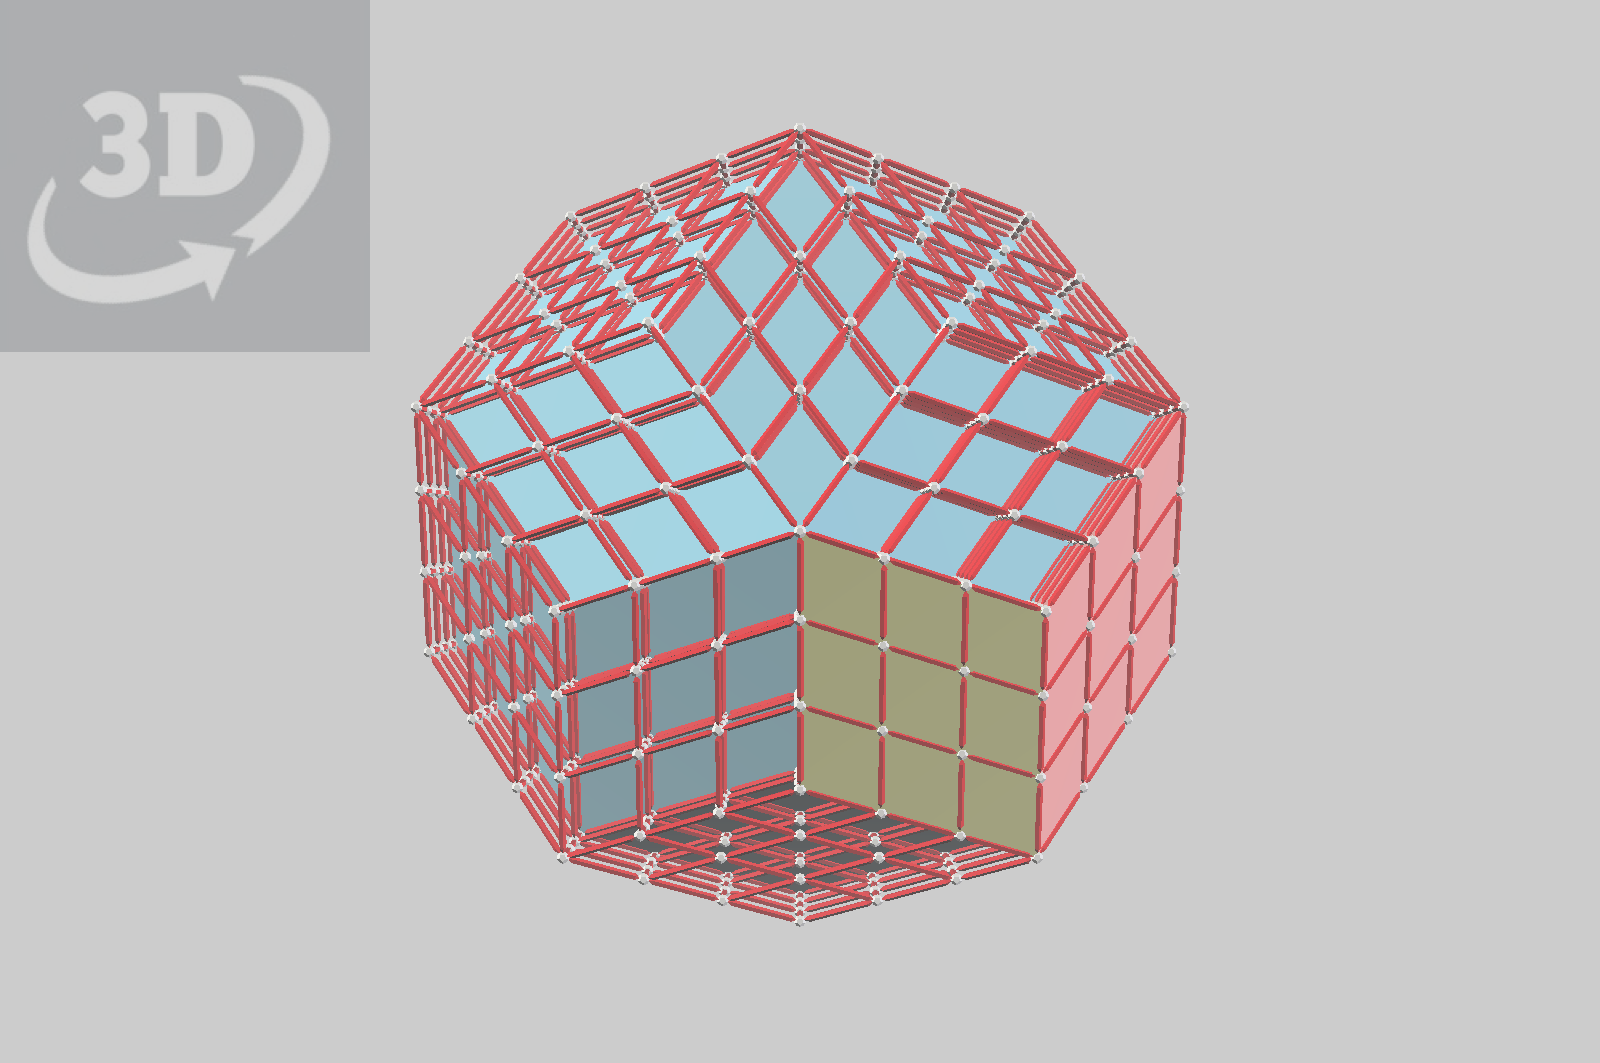
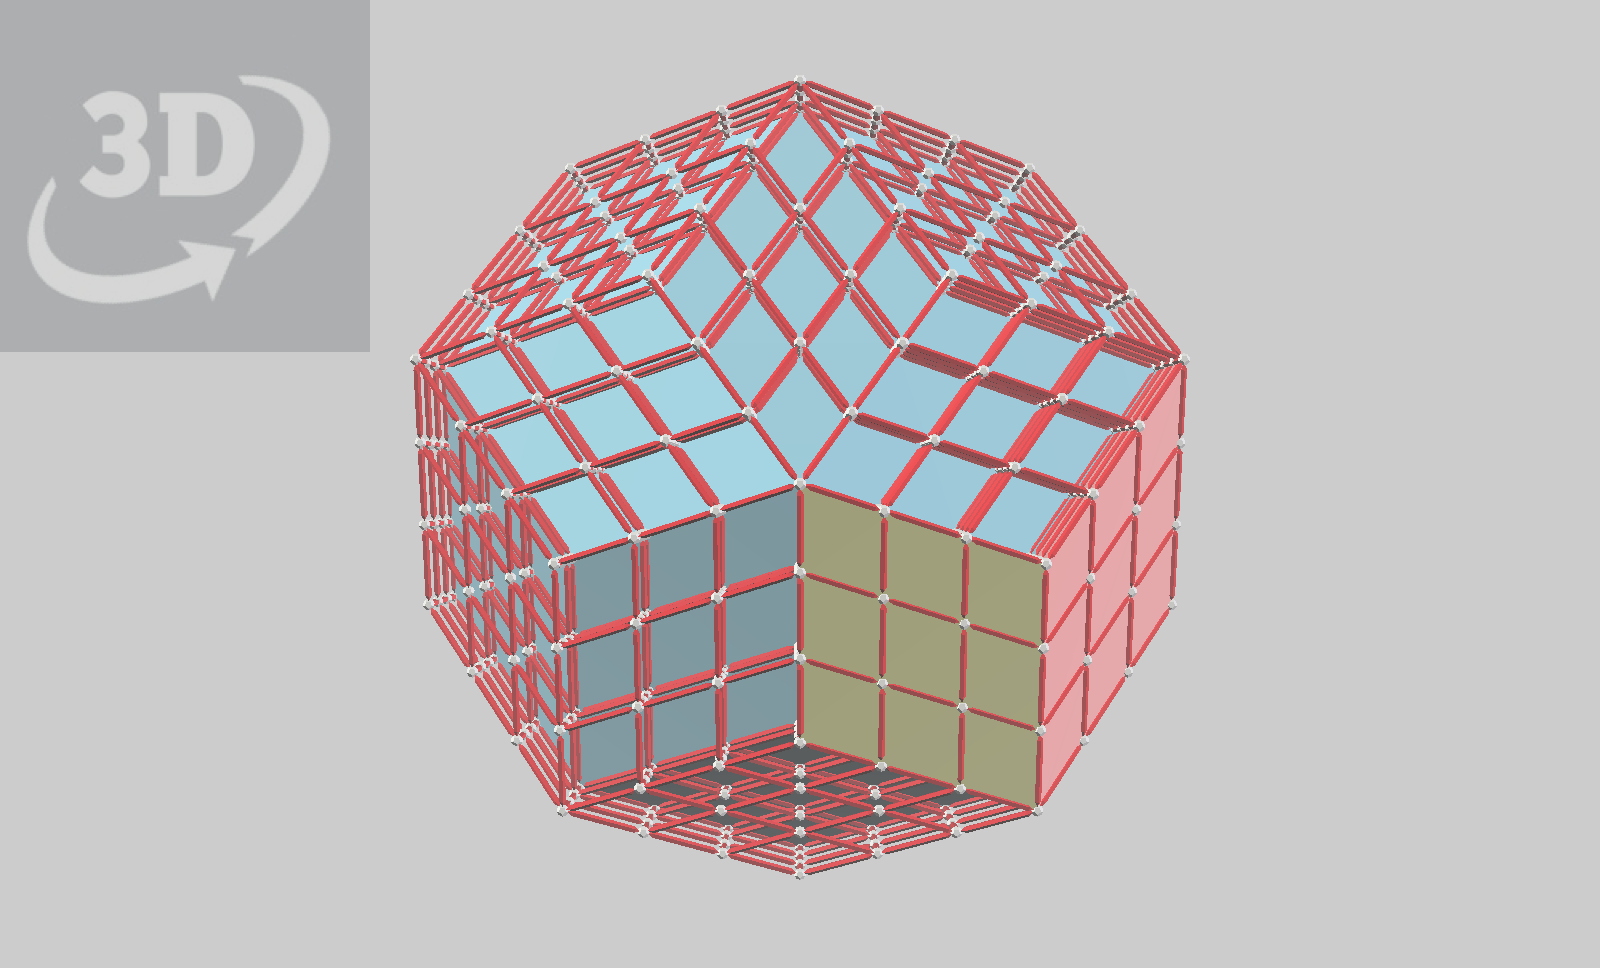
6 Direction Array Construction

Changed region(s): [[0.0, 0.062, 0.75, 0.8988]]

diff --git a/2026/10/02/16-21-07-6-Direction-Array-Construction/README.md b/2026/10/02/16-21-07-6-Direction-Array-Construction/README.md
@@ -9,8 +9,8 @@
  ```html
 <figure style="width: 87%; margin: 5%">
   
-  <div style='display:flex;'><div style='margin: auto;'><vzome-viewer-previous label='prev step'></vzome-viewer-previous><vzome-viewer-next label='next step'></vzome-viewer-next></div></div>
-  <vzome-viewer style="width: 100%; height: 60dvh" indexed='true'
+  
+  <vzome-viewer style="width: 100%; height: 60dvh" show-scenes='named'
         src="https://John-Kostick.github.io/vzome-sharing/2026/10/02/16-21-07-6-Direction-Array-Construction/6-Direction-Array-Construction.vZome" >
     <img  style="width: 100%"
         src="https://John-Kostick.github.io/vzome-sharing/2026/10/02/16-21-07-6-Direction-Array-Construction/6-Direction-Array-Construction.png" >

diff --git a/2026/10/02/16-21-07-6-Direction-Array-Construction/index.md b/2026/10/02/16-21-07-6-Direction-Array-Construction/index.md
@@ -6,8 +6,8 @@ layout: design
 ---
 
   
-  <div style='display:flex;'><div style='margin: auto;'><vzome-viewer-previous label='prev step'></vzome-viewer-previous><vzome-viewer-next label='next step'></vzome-viewer-next></div></div>
-  <vzome-viewer style="width: 100%; height: 60dvh" indexed='true'
+  
+  <vzome-viewer style="width: 100%; height: 60dvh" show-scenes='named'
         src="https://John-Kostick.github.io/vzome-sharing/2026/10/02/16-21-07-6-Direction-Array-Construction/6-Direction-Array-Construction.vZome" >
     <img  style="width: 100%"
         src="https://John-Kostick.github.io/vzome-sharing/2026/10/02/16-21-07-6-Direction-Array-Construction/6-Direction-Array-Construction.png" >
